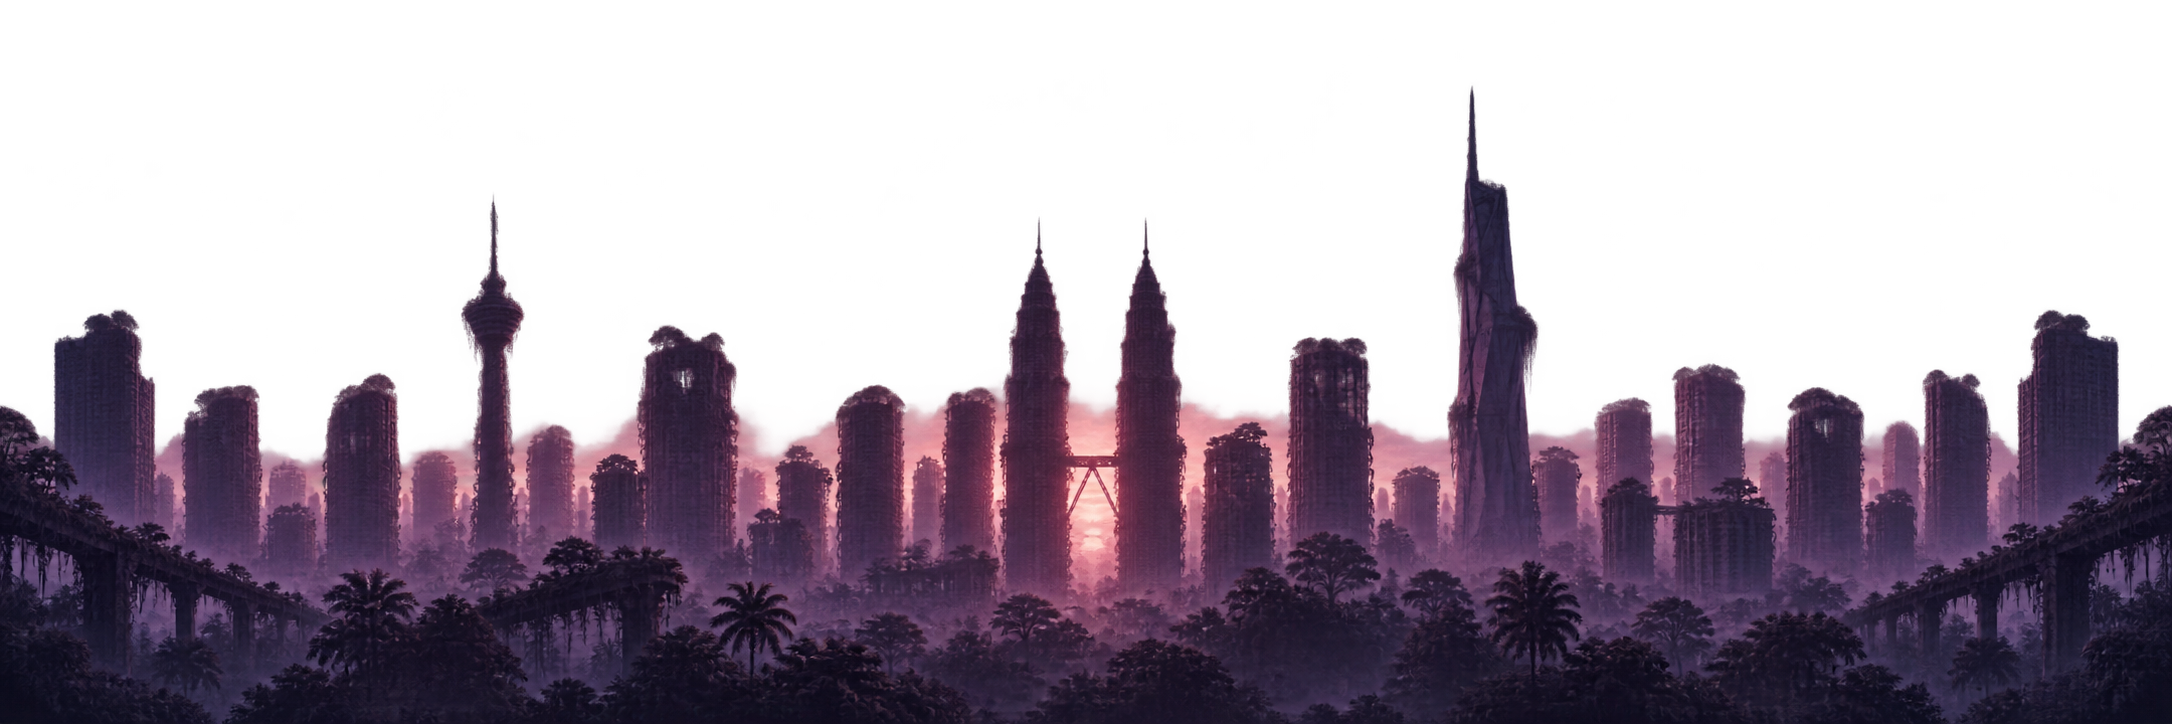
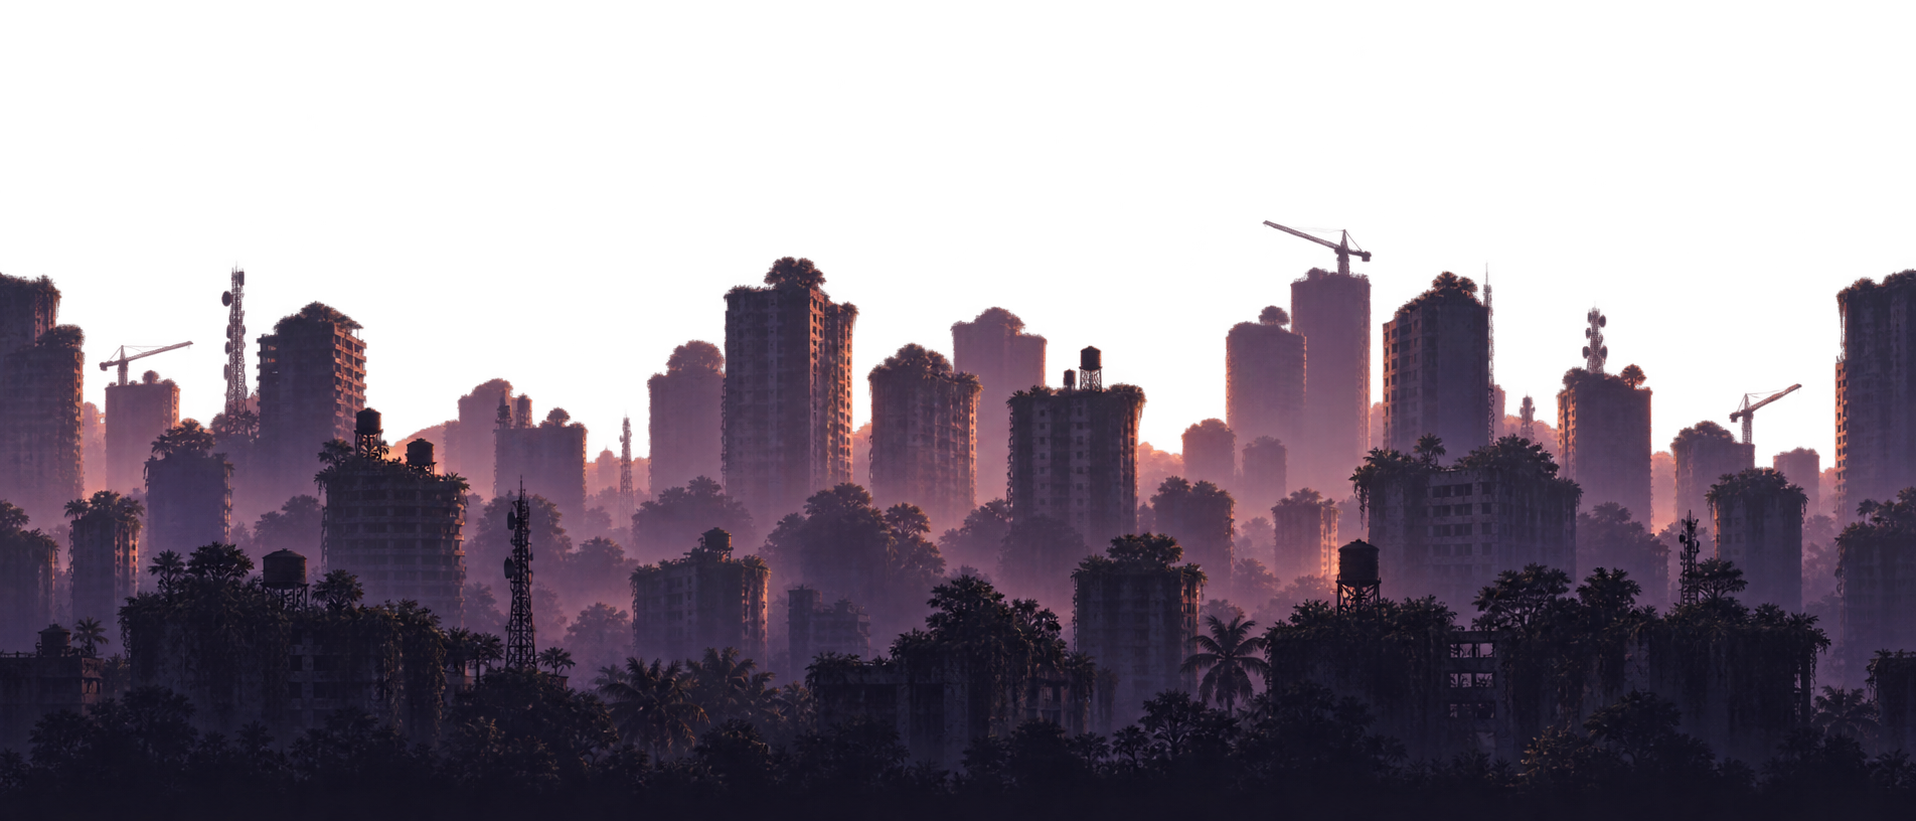
Rework Merdeka Ascent art so the layers complement each other
- Background now holds the landmarks (Twin Towers, Merdeka 118, TRX, KL Tower) once; far/mid/foreground are generic KL and explicitly tower-free

- Far = distant generic skyline, mid = KL city fabric, foreground = street-level buildings/infrastructure + foliage

- Update the Level 4 prompts in docs/PARALLAX_ART.md to match

diff --git a/docs/PARALLAX_ART.md b/docs/PARALLAX_ART.md
@@ -182,22 +182,22 @@ Painterly digital matte painting foreground foliage layer, cinematic, highly det
 
 **4.1 - Background (opaque, full scene)**
 ```
-Painterly digital matte painting, cinematic, highly detailed. Setting: Kuala Lumpur at dusk, far-future dystopian - the abandoned city reclaimed by jungle, humanity gone. Sweeping skyline with the Petronas Twin Towers, Merdeka 118 and KL Tower wrapped in vines, silhouetted against dramatic purple-magenta dusk clouds; glowing haze; jungle canopy spilling from ruined skyscrapers; the city below fading into darkness. Muted desaturated purple palette with warm glints; dramatic volumetric light. Wide panorama, horizon low, base at bottom, top/bottom 15% crop-safe. HORIZONTALLY SEAMLESS/TILEABLE: left and right edges match exactly. Full opaque scene (no transparency). Minimum 1792x1024, prefer wider (2560x1080 or 3072x768). No people, no text, watermark, logo, UI or border.
+Painterly digital matte painting, cinematic, highly detailed. Setting: Kuala Lumpur at dusk, far-future dystopian, humanity gone, the abandoned city reclaimed by tropical jungle. A single broad FAR-DISTANCE skyline panorama, hazy and backlit against dramatic purple-magenta dusk clouds, low horizon, the metropolis dissolving into atmospheric haze. The iconic landmarks appear ONCE each, spread apart across the width at different positions, distant and small: Merdeka 118 toward the left, the Petronas Twin Towers centre-left, the KL Tower centre-right, and the TRX (Exchange 106) tower toward the right - all overgrown with vines, faint warm light in a few windows. Generic overgrown skyscrapers fill the spaces between them. A low dark band of jungle canopy and ruined rooftops runs along the bottom edge. Muted desaturated purple-magenta palette with warm glints; soft volumetric light, deep atmospheric perspective. IMPORTANT: each landmark appears exactly once and no landmark is repeated anywhere in the image. Wide panorama, horizon low, base at bottom, top/bottom 15% crop-safe. HORIZONTALLY SEAMLESS/TILEABLE: left and right edges match exactly. Full opaque scene (no transparency). Minimum 1792x1024, prefer wider (2560x1080 or 3072x768). No people, no text, watermark, logo, UI or border.
 ```
 
-**4.2 - Parallax: distant skyline (transparent)**
+**4.2 - Parallax: distant generic skyline (transparent)**
 ```
-Painterly digital matte painting silhouette layer, cinematic, highly detailed. Setting: dystopian overgrown Kuala Lumpur at dusk. DISTANT skyline silhouette only: the Petronas Twin Towers, Merdeka 118, telecom tower, assorted skyscrapers - all overgrown, backlit against a glowing purple-magenta sky; faint haze. Elements in the lower ~70%; top ~30% empty transparent. Muted purple-magenta palette. Wide panorama, base at bottom, top/bottom 15% crop-safe. HORIZONTALLY SEAMLESS/TILEABLE: left and right edges match exactly. PNG with TRANSPARENT background; otherwise flat pure-magenta #FF00FF background, no shadows/gradients. Minimum 1792x1024, prefer wider. No people, no text, watermark, logo, UI or border.
-```
-
-**4.3 - Mid layer, diverse (transparent)**
-```
-Painterly digital matte painting mid-distance layer, cinematic, highly detailed. Setting: dystopian overgrown Kuala Lumpur at dusk. MID-DISTANCE elements - diverse, not only machinery: ruined skyscrapers with broken windows, elevated highways and LRT rail viaducts, faded billboards, rooftop water tanks, a night-market street with tattered awnings, brass clockwork cranes and gantries, hanging gardens, tangled cable lines, abandoned vehicles overgrown with moss. Elements in the lower ~70%; top ~30% empty transparent. Muted purple palette with warm lamp glints. Wide panorama, base at bottom, top/bottom 15% crop-safe. HORIZONTALLY SEAMLESS/TILEABLE: left and right edges match exactly. PNG with TRANSPARENT background; otherwise flat pure-magenta #FF00FF background, no shadows/gradients. Minimum 1792x1024, prefer wider. No people, no text, watermark, logo, UI or border.
+Painterly digital matte painting silhouette layer, cinematic, highly detailed. Setting: dystopian overgrown Kuala Lumpur at dusk. DISTANT generic skyline only - ordinary city fabric, NOT landmarks: plain high-rise offices, condominium and apartment towers, residential blocks, telecom masts, rooftop water tanks, construction cranes - all overgrown, silhouetted and backlit against the glowing purple-magenta sky, lost in haze. Do NOT include the Petronas Twin Towers, Merdeka 118, TRX or the KL Tower - no iconic landmark anywhere in this layer. Elements sit in the lower ~70% of the frame; top ~30% empty transparent. Muted purple-magenta palette. Wide panorama, base at bottom, top/bottom 15% crop-safe. HORIZONTALLY SEAMLESS/TILEABLE: left and right edges match exactly. PNG with TRANSPARENT background; otherwise flat pure-magenta #FF00FF background, no shadows/gradients. Minimum 1792x1024, prefer wider. No people, no text, watermark, logo, UI or border.
 ```
 
-**4.4 - Foreground foliage (transparent)**
+**4.3 - Mid layer: KL city fabric (transparent)**
 ```
-Painterly digital matte painting foreground foliage layer, cinematic, highly detailed. Near-camera tropical foliage framing the bottom: palm fronds, banana leaves, monstera, hanging vines, flowering shrubs and moss, silhouetted against dusk light with faint rim lighting. Muted purple palette with warm highlights. Occupies the bottom ~40%; upper area transparent. VERY wide panorama, base at bottom, top 15% crop-safe. HORIZONTALLY SEAMLESS/TILEABLE: left and right edges match exactly. PNG with TRANSPARENT background; otherwise flat pure-magenta #FF00FF background, no shadows/gradients. Minimum 1792x1024, prefer wider. No people, no text, watermark, logo, UI or border.
+Painterly digital matte painting mid-distance layer, cinematic, highly detailed. Setting: dystopian overgrown Kuala Lumpur at dusk. MID-DISTANCE city fabric that sits in front of the far skyline, diverse and lived-in: low- and mid-rise offices and shophouses with weathered clay-tile roofs, an LRT/MRT station with an elevated rail viaduct, an elevated highway interchange, faded billboards and shop signage, rooftop water tanks and air-conditioner units, pedestrian skybridges, street lamps with tangled utility cables, a mosque with a dome and slender minaret, and monsoon trees growing between the buildings - all overgrown with vines and moss. This layer is LOWER and CLOSER than the far skyline: no skyscrapers, and do NOT include the Petronas Twin Towers, Merdeka 118, TRX or KL Tower. Elements sit in the lower ~70% of the frame; top ~30% empty transparent. Muted purple palette with warm lamp glints. Wide panorama, base at bottom, top/bottom 15% crop-safe. HORIZONTALLY SEAMLESS/TILEABLE: left and right edges match exactly. PNG with TRANSPARENT background; otherwise flat pure-magenta #FF00FF background, no shadows/gradients. Minimum 1792x1024, prefer wider. No people, no text, watermark, logo, UI or border.
+```
+
+**4.4 - Foreground: street-level buildings, infrastructure and foliage (transparent)**
+```
+Painterly digital matte painting foreground / near layer, cinematic, highly detailed. Setting: dystopian overgrown Kuala Lumpur at dusk. CLOSE street-level buildings and infrastructure framing the bottom of the scene: weathered shophouse facades with Chinese and Tamil signage and awnings, a corner kopitiam, a five-foot-way colonnade, street lamps, tangled overhead utility cables, road barriers, a bus stop, a traffic light and a road drain - all abandoned and overgrown. Framed by dense tropical foliage along the very bottom: palm fronds, banana leaves, monstera, ferns, flowering shrubs and hanging vines, rim-lit by the last dusk light. This is the NEAREST layer: no skyscrapers, and do NOT include the Petronas Twin Towers, Merdeka 118, TRX or KL Tower. Occupies the bottom ~40% of the frame; upper area transparent. Muted purple palette with warm highlights. VERY wide panorama, base at bottom, top 15% crop-safe. HORIZONTALLY SEAMLESS/TILEABLE: left and right edges match exactly. PNG with TRANSPARENT background; otherwise flat pure-magenta #FF00FF background, no shadows/gradients. Minimum 1792x1024, prefer wider. No people, no text, watermark, logo, UI or border.
 ```
 
 ### 4.4 Level 1 - ARRIVAL GATE (only if regenerated)
